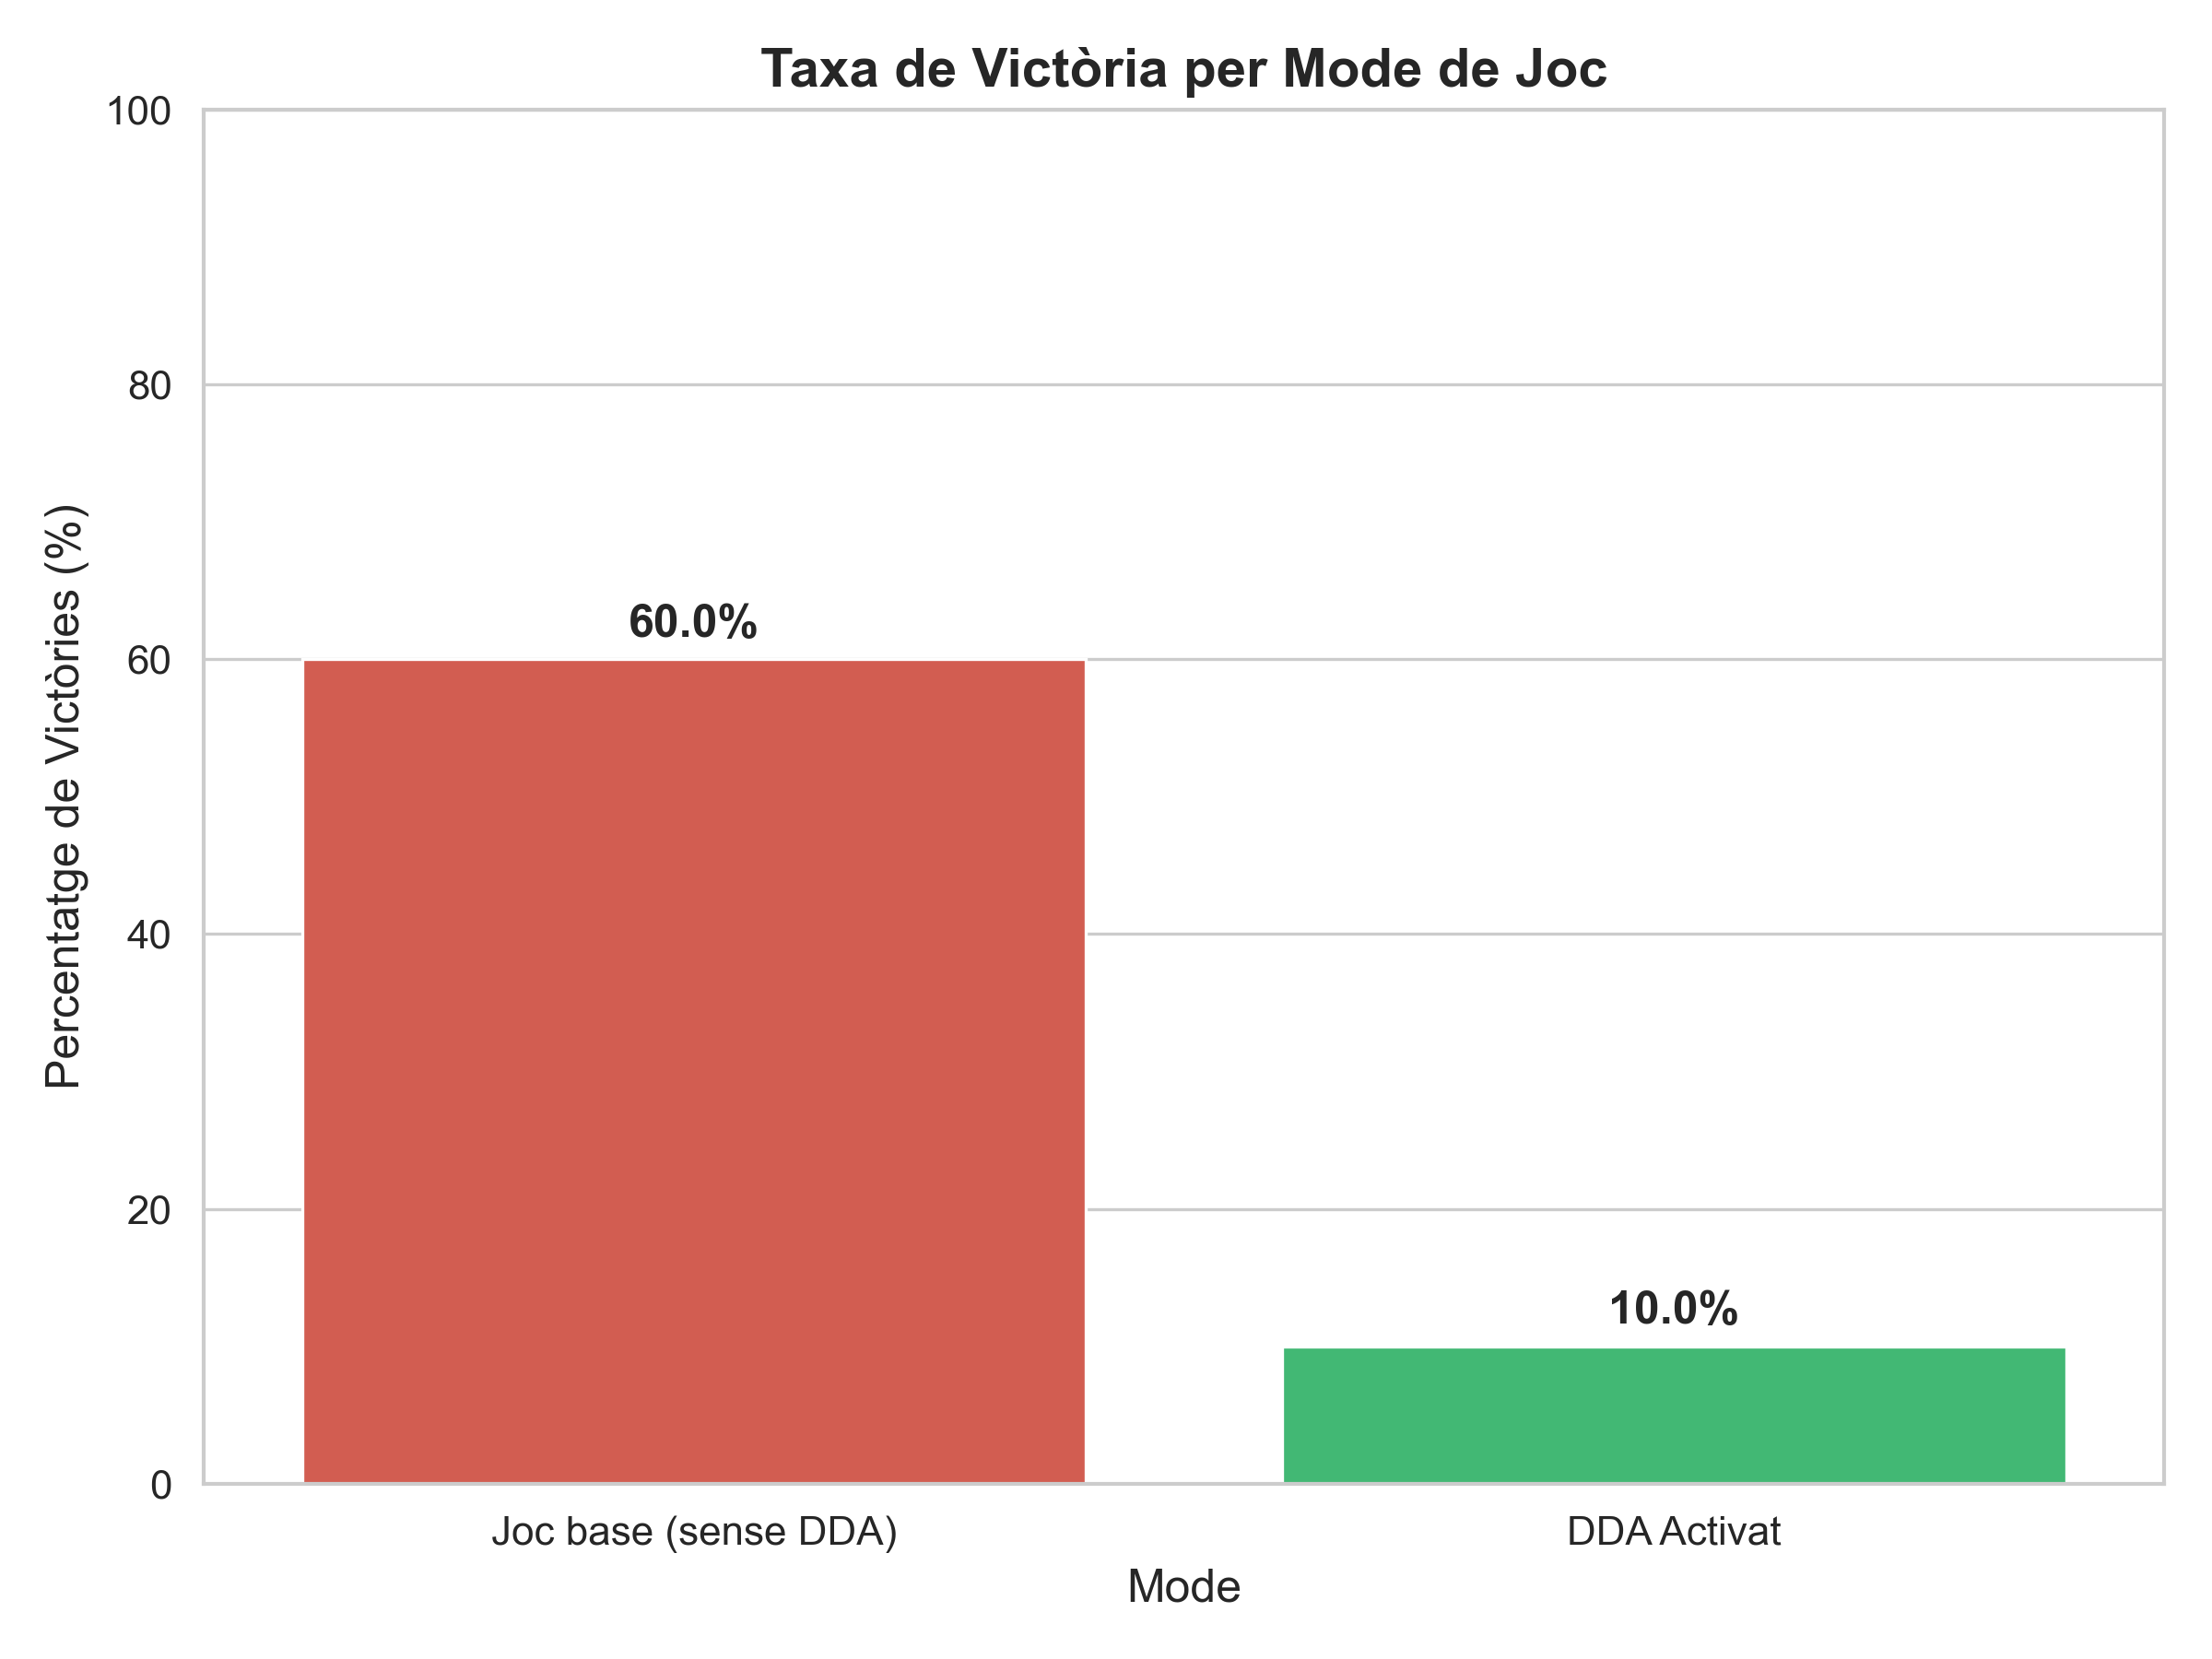
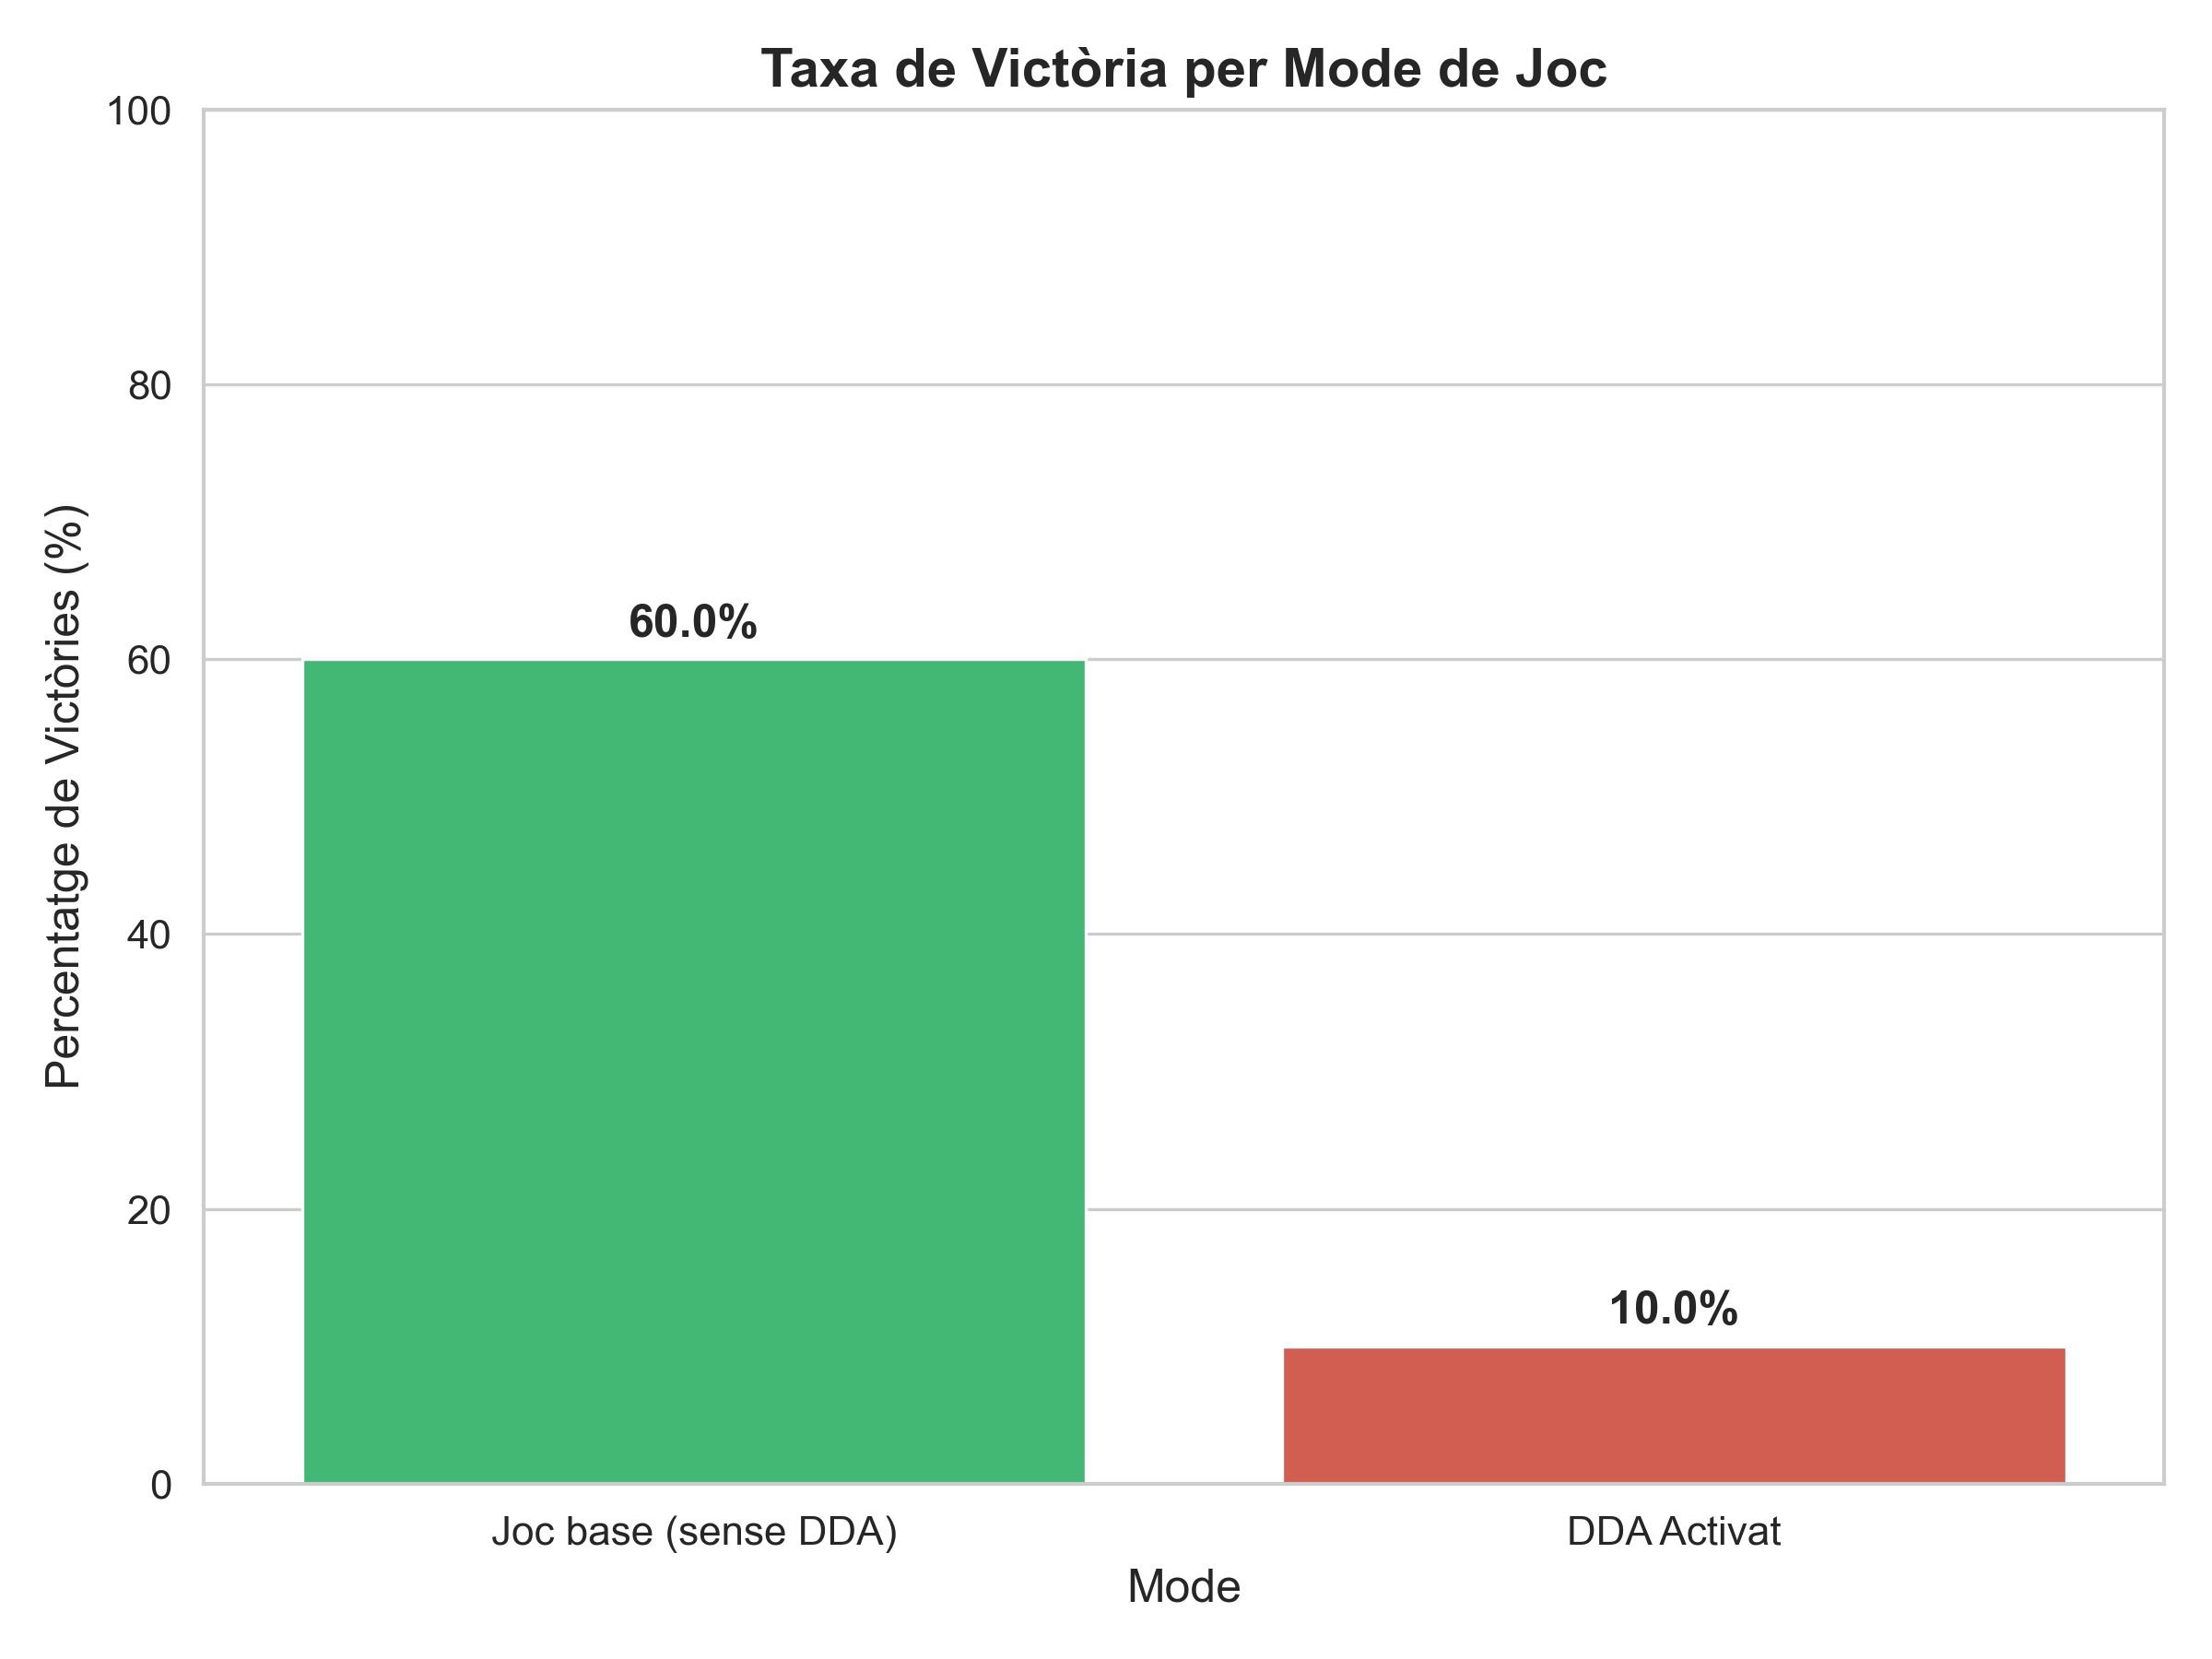
Detalles en juego y recopilación de datos

Changed region(s): [[0.125, 0.3733, 0.5, 0.9022], [0.5625, 0.8089, 0.9375, 0.9022]]

diff --git a/TFG - Machine Learning/src/analisis_dda.py b/TFG - Machine Learning/src/analisis_dda.py
@@ -68,7 +68,7 @@ def main():
         hue='Modo', 
         marker='o',
         linewidth=2,
-        palette=['#e74c3c', '#2ecc71'] # Rojo para Juego Base, Verde para DDA
+        palette=['#e74c3c', '#2ecc71'] # Rojo para Juego Base, Verde para DDA 
     )
     plt.title("Corba de Supervivència: Salut Mitjana per Sala", fontsize=14, fontweight='bold')
     plt.xlabel("Índex de la Sala", fontsize=12)
@@ -87,7 +87,7 @@ def main():
         data=df_summary, 
         x='Modo', 
         y='Win Rate (%)', 
-        palette=['#e74c3c', '#2ecc71']
+        palette=['#2ecc71', '#e74c3c']
     )
     plt.title("Taxa de Victòria per Mode de Joc", fontsize=14, fontweight='bold')
     plt.xlabel("Mode", fontsize=12)

diff --git a/TFG - Legions of Rome/Assets/Scripts/PCG/DDAManager.cs b/TFG - Legions of Rome/Assets/Scripts/PCG/DDAManager.cs
@@ -81,7 +81,7 @@ public class DDAManager : MonoBehaviour
                 speedMultiplier = 1.4f;
                 trapProbability = 0.1f;
                 obstacleProbability = 0.5f;
-                rangedEnemyProbability = 0.2f;
+                rangedEnemyProbability = 0.1f;
                 break;
             case "Unskilful":
                 minEnemies = 2;